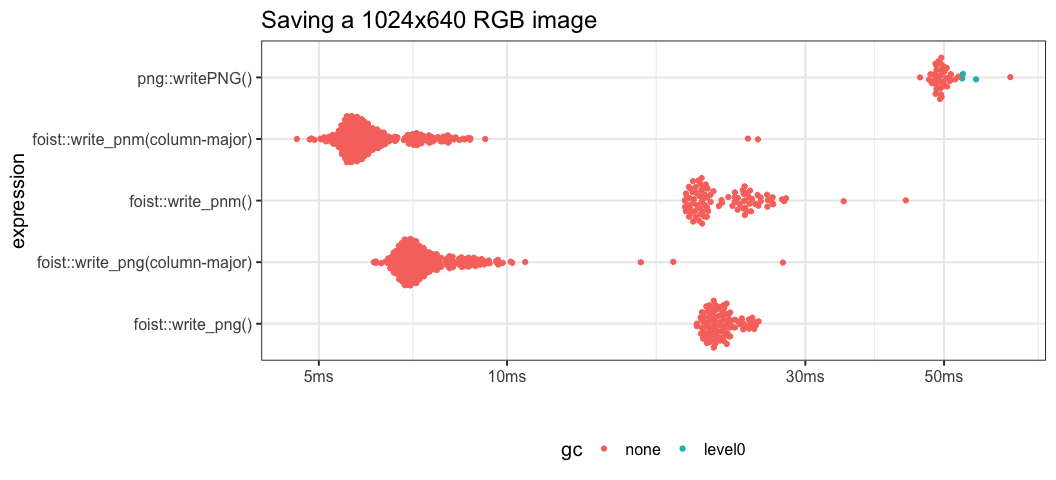
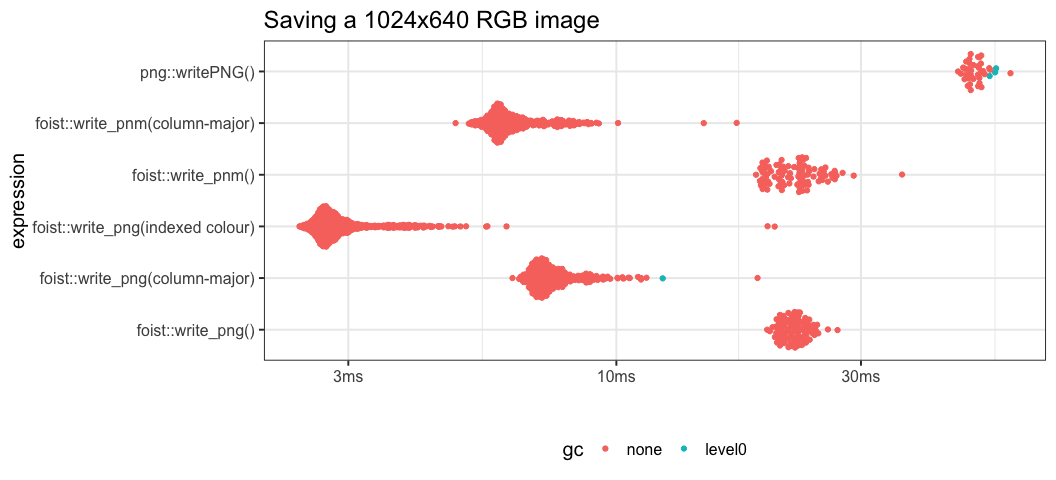
update README

diff --git a/README.md b/README.md
@@ -16,35 +16,33 @@
 
 <br/>
 
-**`foist` writes lossless grey image files \~5.5x faster than the `png`
-library.**
+**`foist` can write lossless grey image files \~5.5x faster than the
+`png` library.**
 
-**`foist` writes lossless RGB image files \~7.5x faster than the `png`
-library**
+**`foist` can write lossless RGB image files \~7.5x faster than the
+`png` library.**
 
-**`foist` allocates 300-1000x *less* memory than png.**
+**`foist` allocates a lot less memory than other methods.**
 
 <br/>
 
-  - Only supports writing (lossless) images:
+  - Supports writing lossless images in two formats:
       - [NETPBM](http://netpbm.sourceforge.net/) PGM (grey) and PPM
         (RGB) files
       - [PNG](https://en.wikipedia.org/wiki/Portable_Network_Graphics)
         files - Grey, RGB or with a fixed 256 colour palette.
   - Only supports 8-bits-per-channel grey and RGB images.
-  - Uses [Rcpp](https://cran.r-project.org/package=Rcpp) to do
-      - type conversion from *double* to *unsigned byte*, and
-      - data re-ordering from R’s column-major ordering to image output
-        with row-major ordering
-  - By specifying `convert_to_row_major = FALSE` the image data-ordering
-    is not converted from R’s native data ordering - this makes image
-    saving very fast as data manipulation operations are minimised and
-    cache coherency is much improved. However, the image will appear
-    tranposed in the output.
+  - Part of the speed of `foist` comes from using
+    [Rcpp](https://cran.r-project.org/package=Rcpp) to quickly scale,
+    manipulate and re-order data for image output.
+  - The fastest output speed is achieved by writing the data in the same
+    order in which it is stored in R (column major ordering). The price
+    paid for this speed is that the image will appear transposed in the
+    output.
 
 ## What’s in the box
 
-  - `write_pnm()` and `write_png()` which can
+  - `write_pnm()` and `write_png()` which can both:
       - write an array to an RGB image
       - write a matrix to a grey image
       - write a matrix to a RGB image with a supplied palette
@@ -55,13 +53,14 @@ library**
 This package would not be possible without:
 
   - [Rcpp](https://cran.r-project.org/package=Rcpp) - The easiest way to
-    get fast C/C++ code into R
-  - [viridis](https://cran.r-project.org/package=viridis) - The
-    wonderful palettes originally from
-    [matplotlib](http://matplotlib.org)
+    get fast C/C++ code into R.
+  - [viridis](https://cran.r-project.org/package=viridis) - Wnderful
+    palettes originally from [matplotlib](http://matplotlib.org).
   - [NETPBM](http://netpbm.sourceforge.net) - A 30-year-old, rock-solid,
-    uncompressed image format
-  - [PNG](https://www.w3.org/TR/PNG/)
+    uncompressed image format.
+  - [PNG](https://www.w3.org/TR/PNG/) - A 20-year old, rock-solid image
+    format with lossless compression (which also supports uncompressed
+    image data).
 
 ## Caveats
 
@@ -69,24 +68,39 @@ Don’t look at my C/C++ code unless you’d like a heart attack.
 
 ## Technical Notes
 
-  - `foist` contains a bespoke PNG encoder I wrote in C++
-      - Encoder uses Mark Adler’s `adler32.c` code from
+  - `foist` contains a bespoke, minimalist PNG encoder I wrote in C++
+      - This was written so I’d have complete control over the image
+        output.
+      - There is no lossless compression enabled in this PNG encoder
+        i.e. only uncompressed DEFLATE blocks are used (see
+        <https://datatracker.ietf.org/doc/rfc1951> Sect 3.2.4).
+      - The IDAT and ZLIB/DEFLATE blocks are output in sync
+        (one-DEFLATE-block-per-IDAT-chunk) as this made the PNG
+        implementation much simpler.
+      - The encoder uses Mark Adler’s `adler32.c` code from
         [zlib](https://www.zlib.net/) Copyright (C) 1995-2011, 2016 Mark
-        Adler
+        Adler.
       - A SIMD version of `adler32()` is included but not enabled by
-        default. See `#define ADLER_SIMD` in `write-png.cpp`
+        default. The speed gains weren’t significant enough for the
+        machine imcompatibility headaches it would introduce. See
+        `#define ADLER32_SSE` in `write-png.cpp` if you’d like to try
+        it.
       - `crc32` implementation is a very fast slice-by-16 implementation
         by [Stephan Brumme](https://create.stephan-brumme.com/crc32/).
         This is noticeably much faster than the slice-by-4 crc32 that
-        comes with the standard [zlib library](https://www.zlib.net/) or
-        in the R package
-        [digest](https://cran.r-project.org/package=digest)
+        comes with the standard [zlib library](https://www.zlib.net/).
   - When converting the numeric values to unsigned bytes for image
-    output, they are truncated to integer rather than rounded
+    output, they are truncated to integer rather than rounded.
+  - Because PNG data also needs CRC32 and ADLER32 checksumming it is
+    generally slower than PGM/PPM output.
+  - However, writing a matrix with a palette will be faster in PNG as it
+    has direct support for indexed colours, whereas for a NETPBM PPM
+    file the intensity values need to be explicitly mapped to an RGB
+    triplet and then written out in full.
 
 ## Installation
 
-You can install the development version from
+You can install the package from
 [GitHub](https://github.com/coolbutuseless/foist) with:
 
 ``` r
@@ -96,10 +110,10 @@ devtools::install_github("coolbutuseless/foist")
 
 ## Setup data
 
-  - `dbl_mat` - A numeric matrix to output to a grey image. All values
-    in range \[0, 1\]
-  - `dbl_arr` - A 3d numeric array to output to an RGB image. All values
-    in range \[0, 1\]
+  - `dbl_mat` - A 2D numeric matrix for output to a grey image. All
+    values in range \[0, 1\]
+  - `dbl_arr` - A 3d numeric array for output to an RGB image. All
+    values in range \[0, 1\]
 
 <!-- end list -->
 
@@ -119,11 +133,14 @@ dbl_arr <- array(c(r, g, b), dim = c(nrow, ncol, 3))
 
 ## Save a *2D matrix* as a grey image
 
-A 2D numeric **matrix** can be saved as a grey image..
+`write_png()` and `write_pnm()` will save a 2D numeric **matrix** as a
+grey image.
 
-The matrix values must be in the range \[0, 1\]. Use the
-`intensity_factor` argument to scale image values on-the-fly as they are
-written to file.
+  - The matrix values must be in the range \[0, 1\].
+  - Use the `intensity_factor` argument to scale image values on-the-fly
+    as they are written to file.
+
+<!-- end list -->
 
 ``` r
 # NETPBM PGM
@@ -147,12 +164,16 @@ write_png(dbl_mat, "man/figures/col-0-t.png", convert_to_row_major = FALSE)
 
 ## Save a *3D array* as an RGB image
 
-An NxMx3 **array** can be saved as an RGB image. Each of the colours is
-represented of one of the 3 planes of the array.
+`write_png()` and `write_pnm()` will save a 3D numeric **array** as an
+RGB image.
 
-The array values must be in the range \[0, 1\]. Use the
-`intensity_factor` argument to scale image values on-the-fly as they are
-written to file.
+  - Array dimensions must be NxMx3 where the 3 colour planes correspond
+    to the third dimension of the array.
+  - The matrix values must be in the range \[0, 1\].
+  - Use the `intensity_factor` argument to scale image values on-the-fly
+    as they are written to file.
+
+<!-- end list -->
 
 ``` r
 # NETPBM PPM format
@@ -176,14 +197,16 @@ write_pnm(dbl_arr, filename = "man/figures/col-1-t.png", convert_to_row_major = 
 
 ## Save a *matrix* to an RGB image using a palette lookup
 
-`foist` can write a grey image as an RGB image by using each grey pixel
-value to lookup an RGB colour in a given palette.
+`write_png()` and `write_pnm()` will save a 2D numeric **matrix** as an
+RGB image if also supplied with a colour palette.
 
-Using `write_png()` to write a paletted image will be faster than
-`write_pnm()` because the PNG format directly supports palettes.
-
-A palette must be an integer matrix with dimensions 256 x 3 and values
-in the range \[0, 255\].
+  - A palette must be an integer matrix with dimensions 256 x 3 and
+    values in the range \[0, 255\].
+  - Pixel values in the matrix are first scaled into the range \[0,
+    255\] and are then mapped to one of the RGB colours in the palette.
+  - The matrix values must be in the range \[0, 1\].
+  - Use the `intensity_factor` argument to scale image values on-the-fly
+    as they are written to file.
 
 `foist` includes the 5 palettes from
 [viridis](https://cran.r-project.org/package=viridis) as `vir$magma`
@@ -224,9 +247,7 @@ The following benchmark compares the time to output of a grey image
 using:
 
   - `foist::write_pnm()` in both row-major and column-major ordering
-      - by **not** converting to row-major ordering the data is written
-        in the same order it is stored in R. By minimizing this data
-        manipulation some significant speedups are achieved.
+  - `foist::write_png()` in both row-major and column-major ordering
   - `png::writePNG()`
 
 <!-- end list -->
@@ -246,13 +267,13 @@ res <- bench::mark(
 )
 ```
 
-| expression                      |     min |    mean |  median | itr/sec | mem\_alloc |
-| :------------------------------ | ------: | ------: | ------: | ------: | ---------: |
-| foist::write\_pnm()             |  3.04ms |   4.5ms |  4.16ms |     222 |     2.49KB |
-| foist::write\_pnm(column-major) |  2.07ms |  2.63ms |  2.44ms |     380 |     2.49KB |
-| foist::write\_png()             |  3.34ms |  4.11ms |  3.84ms |     243 |     2.49KB |
-| foist::write\_png(column-major) |  2.45ms |  2.95ms |  2.76ms |     339 |     2.49KB |
-| png::writePNG()                 | 12.31ms | 14.45ms | 14.22ms |      69 |   673.21KB |
+| expression                      |    min |   mean |  median | itr/sec | mem\_alloc |
+| :------------------------------ | -----: | -----: | ------: | ------: | ---------: |
+| foist::write\_pnm()             | 3.06ms | 4.41ms |  4.16ms |     227 |     2.49KB |
+| foist::write\_pnm(column-major) |  2.1ms | 2.62ms |  2.44ms |     382 |     2.49KB |
+| foist::write\_png()             | 3.38ms | 4.29ms |  4.02ms |     233 |     2.49KB |
+| foist::write\_png(column-major) | 2.33ms |  2.9ms |  2.75ms |     344 |     2.49KB |
+| png::writePNG()                 | 12.4ms | 14.4ms | 14.27ms |      69 |   673.21KB |
 
 Benchmark results
 
@@ -264,9 +285,7 @@ The following benchmark compares the time to output a colour image
 using:
 
   - `foist::write_pnm()` in both row-major and column-major ordering
-      - by **not** converting to row-major ordering the data is written
-        in the same order it is stored in R. By minimizing this data
-        manipulation some significant speedups are achieved.
+  - `foist::write_png()` in both row-major and column-major ordering
   - `png::writePNG()`
 
 <!-- end list -->
@@ -281,18 +300,21 @@ res <- bench::mark(
   `foist::write_png()`                    = foist::write_png(dbl_arr, tmp),
   `foist::write_png(column-major)`        = foist::write_png(dbl_arr, tmp, convert_to_row_major = FALSE),
   
+  `foist::write_png(indexed colour)`      = foist::write_png(dbl_mat, tmp, convert_to_row_major = FALSE, pal = foist::vir$magma),
+  
   `png::writePNG()`                       = png::writePNG   (dbl_arr, tmp),
   min_time = 2, check = FALSE
 )
 ```
 
-| expression                      |     min |    mean |  median | itr/sec | mem\_alloc |
-| :------------------------------ | ------: | ------: | ------: | ------: | ---------: |
-| foist::write\_pnm()             | 19.24ms | 22.57ms | 21.15ms |      44 |     2.49KB |
-| foist::write\_pnm(column-major) |  4.61ms |  6.27ms |  5.86ms |     160 |     2.49KB |
-| foist::write\_png()             | 20.11ms | 22.05ms | 21.79ms |      45 |     2.49KB |
-| foist::write\_png(column-major) |  6.12ms |  7.61ms |  7.18ms |     131 |     2.49KB |
-| png::writePNG()                 | 45.77ms | 49.74ms | 49.39ms |      20 |     1.88MB |
+| expression                        |     min |    mean |  median | itr/sec | mem\_alloc |
+| :-------------------------------- | ------: | ------: | ------: | ------: | ---------: |
+| foist::write\_pnm()               | 18.73ms |  22.5ms | 22.58ms |      44 |     2.49KB |
+| foist::write\_pnm(column-major)   |  4.86ms |  6.45ms |  6.05ms |     155 |     2.49KB |
+| foist::write\_png()               | 19.69ms | 22.28ms | 22.23ms |      45 |     2.49KB |
+| foist::write\_png(column-major)   |  6.27ms |  7.68ms |  7.31ms |     130 |     2.49KB |
+| foist::write\_png(indexed colour) |  2.41ms |  2.98ms |  2.77ms |     336 |     2.49KB |
+| png::writePNG()                   |  46.4ms | 50.09ms |  49.7ms |      20 |     1.88MB |
 
 Benchmark results
 
